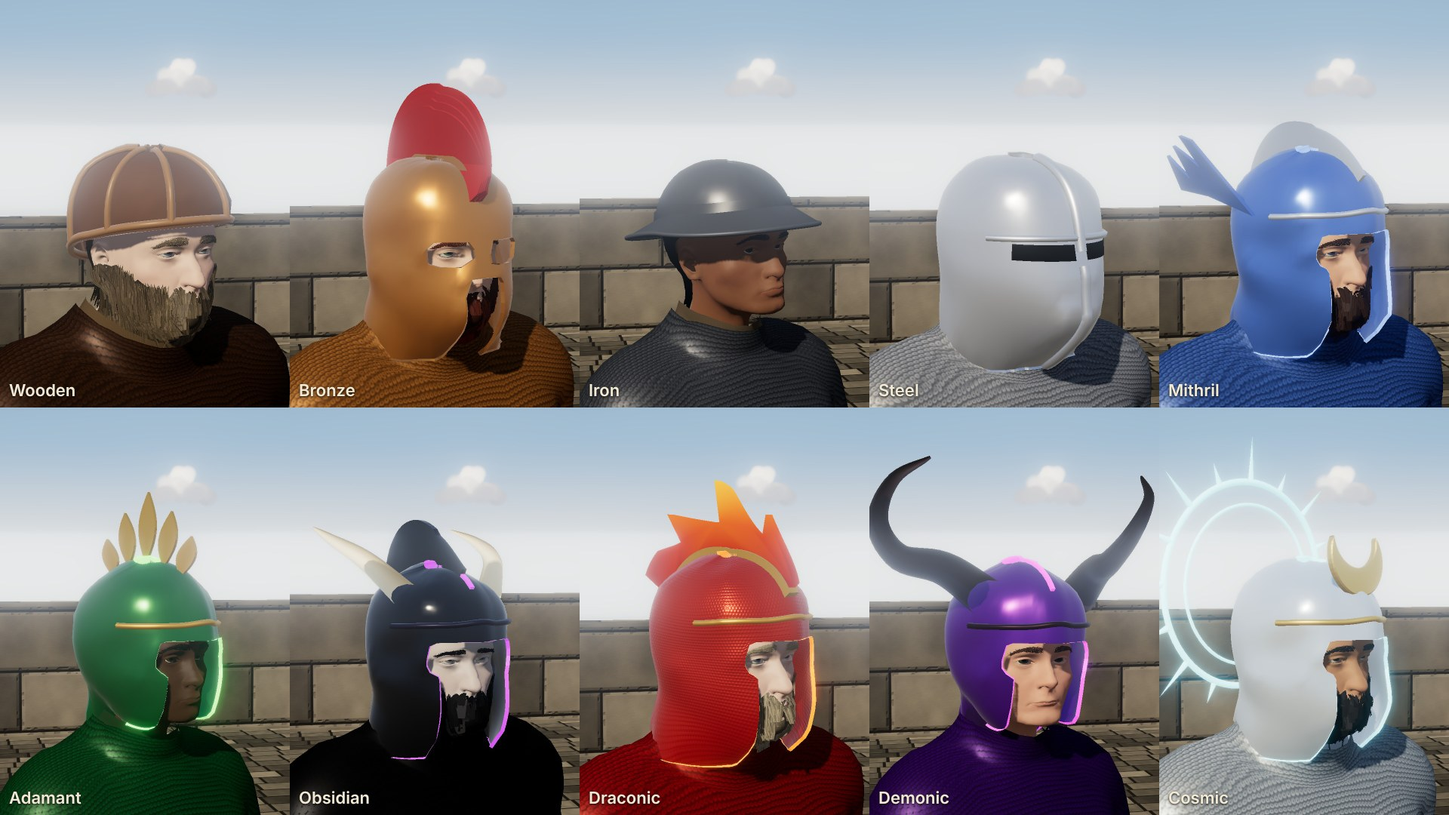
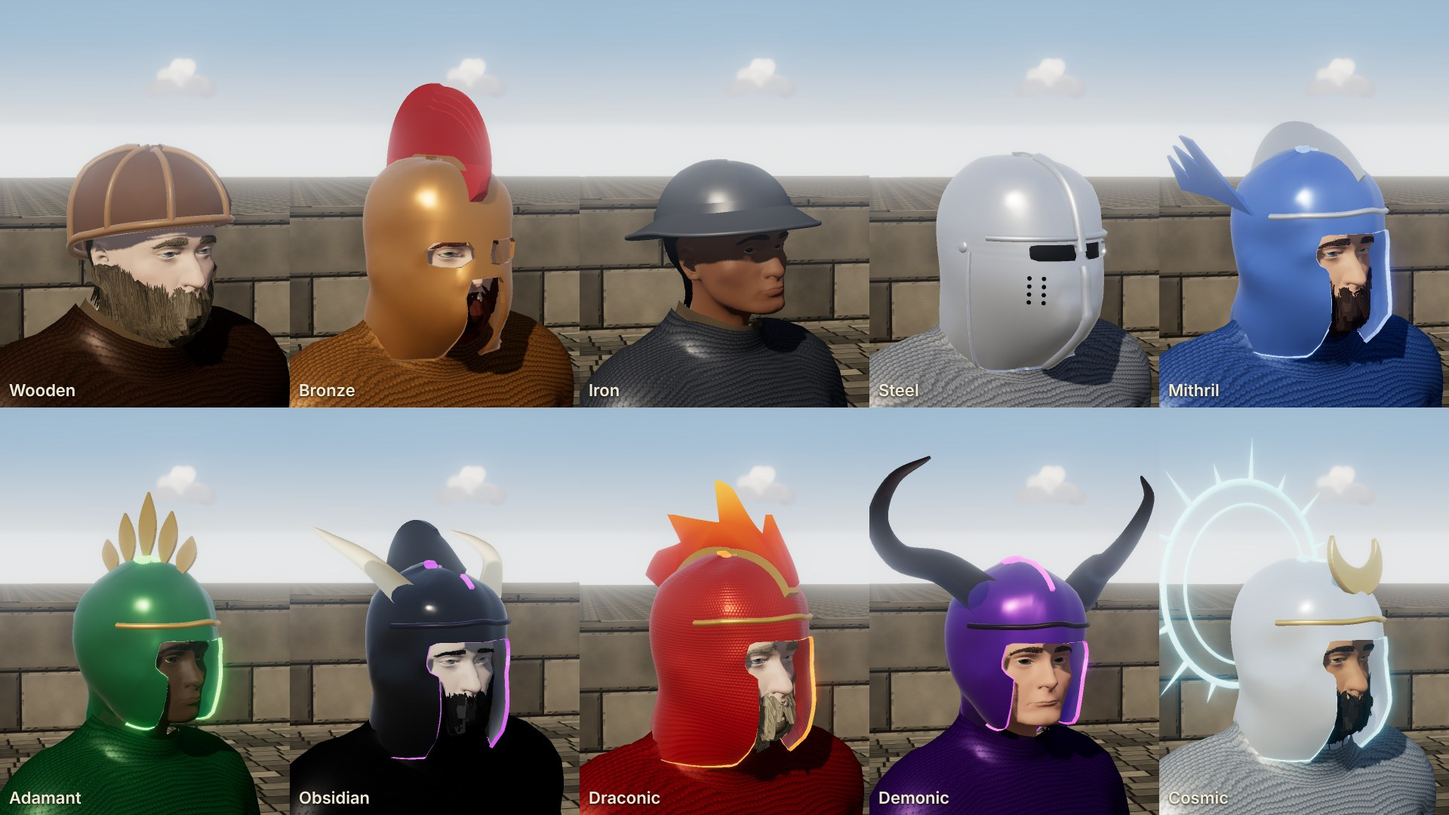
Bodies: Session 1193 — the top tiers' helms shut as visors, to Michael's C (L7, OG-052, prototype only)
A sight cut through on rows crowded at the eyes, a dark plate behind it, a prow to a keel, breaths and
pivots; the shell's cut moves along the grid only, and takes the short way across the seam at 0.
helms.check.mjs: no ray from 15 views reaches a shut face; 41/41.

Claude-Session: https://claude.ai/code/session_01SNDMvfMDnhsbv7arhwWjxa

diff --git a/docs/prototypes/levelup/helms.js b/docs/prototypes/levelup/helms.js
@@ -45,6 +45,7 @@ export function M(key, tier) { const k = key + ':' + tier; if (MATS[k]) return M
     : key === 'antler' ? new THREE.MeshStandardMaterial({ color: C(.56, .46, .34), roughness: .75 })
     : key === 'flame' ? new THREE.MeshBasicMaterial({ vertexColors: true, side: THREE.DoubleSide, toneMapped: false })
     : new THREE.MeshStandardMaterial({ color: C(...T.cloth), roughness: .9 });
+  m.userData.key = key;
   if (ENV.map && m.isMeshStandardMaterial) { m.envMap = ENV.map; m.envMapIntensity = ENV.k; }
   return MATS[k] = m; }
 
@@ -62,13 +63,15 @@ export function fitHead(p) {
   const eL = bp('eye.L'), eR = bp('eye.R'), eye = eL && eR ? eL.clone().add(eR).multiplyScalar(.5) : new THREE.Vector3(0, .04, .09), ex = eL && eR ? Math.abs(eL.x - eR.x) / 2 : .031;
   let chin = 1, crown = -1, nose = -1, zb = 1; for (const q of body) { if (Math.abs(q.x) < .02 && q.z > eye.z - .04) chin = Math.min(chin, q.y); crown = Math.max(crown, q.y); nose = Math.max(nose, q.z); zb = Math.min(zb, q.z); }
   const box = new THREE.Box3(); for (const q of pts) box.expandByPoint(q);
-  return { hb, pts, eye, ex, chin, crown, nose, back: zb, box, hood: p.meshes.some(m => m.name === 'hoodUp') };
+  return { hb, pts, body, eye, ex, chin, crown, nose, back: zb, box, hood: p.meshes.some(m => m.name === 'hoodUp') };
 }
 
 // ── the shell ──
 const sstep = (a, b, x) => { const t = Math.min(1, Math.max(0, (x - a) / (b - a))); return t * t * (3 - 2 * t); };
 // o: cl (clearance), bottom(θ) -> y of the rim, sd(x, y, z) -> the face opening's signed distance (< 0 cut), smooth (passes),
-// ridge (a keel along the top, metres), flare (the rim turned out, metres), top (the crown raised, metres), NT, NP
+// ridge (a keel along the top, metres), flare (the rim turned out, metres), top (the crown raised, metres), NT, NP;
+// prow (Session 1193: a shut visor drawn forward to a keel down the face, metres at the mouth), dense ([φ, width, k]: rows k times
+// closer about φ, so a slit there is cut on a fine grid)
 export function shell(F, o = {}) {
   const NT = o.NT || 80, NB = 36, PH = Math.PI * .96, c = new THREE.Vector3(0, F.eye.y - .005, (F.nose + F.back) / 2 - .01), Mx = new Float32Array(NT * NB), CL = o.cl ?? .012;
   const bin = (th, ph) => [((Math.round(th / (Math.PI * 2) * NT) % NT) + NT) % NT, Math.max(0, Math.min(NB - 1, Math.round(ph / PH * (NB - 1))))];
@@ -85,6 +88,8 @@ export function shell(F, o = {}) {
   let phB = null; const R = (th, ph) => { let r = R0(th, ph) + CL; const lat = Math.sin(ph) * Math.sin(th), up = Math.cos(ph);
     if (o.ridge) r += o.ridge * Math.exp(-((lat / .2) ** 2)) * sstep(-.3, .4, up);
     if (o.top) r += o.top * sstep(.2, .95, up);
+    // the prow: most at the mouth, gone by the brow and the throat, and only in front of the cheeks, narrowing to the keel
+    if (o.prow) r += o.prow * Math.max(0, Math.cos(th)) ** 2 * Math.exp(-((lat / .38) ** 2)) * Math.exp(-(((up + .2) / .4) ** 2));
     if (o.flare && phB) r += o.flare * sstep(phB(th) - .45, phB(th), ph) * (.6 + .4 * sstep(-1, -.2, -Math.cos(th)));
     return r; };
   const at = (th, ph, off = 0) => { const r = R(th, ph) + off; return new THREE.Vector3(c.x + r * Math.sin(ph) * Math.sin(th), c.y + r * Math.cos(ph), c.z + r * Math.sin(ph) * Math.cos(th)); };
@@ -93,7 +98,12 @@ export function shell(F, o = {}) {
   const RIM = Array.from({ length: NT + 1 }, (_, t) => phRim(t / NT * Math.PI * 2));
   // the grid: rows from the crown to the rim, denser near the rim and the face
   const NP = o.NP || 28, prm = [], pos = [], uv = [];
-  for (let j = 0; j < NP; j++) for (let t = 0; t <= NT; t++) { const th = t / NT * Math.PI * 2, ph = RIM[t] * (j / (NP - 1)) ** .85; prm.push([th, ph]); const p = at(th, ph); pos.push(p.x, p.y, p.z); uv.push(t / NT, ph / PH); }
+  // with `dense`, a row's φ comes off the cumulative density up to that column's rim, so the rows crowd about φ
+  let rowPh = (t, f) => RIM[t] * f ** .85;
+  if (o.dense) { const [pc, w, k] = o.dense, NS = 400, cum = [0]; for (let i = 1; i <= NS; i++) { const ph = PH * (i - .5) / NS; cum.push(cum[i - 1] + (1 + k * Math.exp(-(((ph - pc) / w) ** 2))) * PH / NS); }
+    const cAt = ph => { const u = Math.min(NS, ph / PH * NS), i = Math.floor(u); return i >= NS ? cum[NS] : cum[i] + (cum[i + 1] - cum[i]) * (u - i); };
+    rowPh = (t, f) => { const tg = cAt(RIM[t]) * f; let lo = 0, hi = RIM[t]; for (let k2 = 0; k2 < 30; k2++) { const m = (lo + hi) / 2; if (cAt(m) < tg) lo = m; else hi = m; } return (lo + hi) / 2; }; }
+  for (let j = 0; j < NP; j++) for (let t = 0; t <= NT; t++) { const th = t / NT * Math.PI * 2, ph = rowPh(t, j / (NP - 1)); prm.push([th, ph]); const p = at(th, ph); pos.push(p.x, p.y, p.z); uv.push(t / NT, ph / PH); }
   const sd = o.sd, V = i => new THREE.Vector3(pos[i * 3], pos[i * 3 + 1], pos[i * 3 + 2]), sdv = i => sd(pos[i * 3], pos[i * 3 + 1], pos[i * 3 + 2]);
   const idx = [], N = pos.length / 3, inside = new Uint8Array(N); if (sd) for (let i = 0; i < N; i++) inside[i] = sdv(i) < 0 ? 1 : 0;
   // the last column is the first again (no seam down the back), and the first row is the crown's one point
@@ -101,22 +111,32 @@ export function shell(F, o = {}) {
   // the face: a triangle wholly inside the opening goes; a vertex inside that a kept triangle still uses moves along the grid,
   // towards the first of its triangle's outside corners, onto the opening's edge
   const moved = new Uint8Array(N);
-  for (const T of tris) { const n = T.filter(i => inside[i]).length; if (n === 3) continue; idx.push(...T); if (!n) continue;
-    for (const i of T) if (inside[i] && !moved[i]) { const out = T.find(k => !inside[k]); let lo = prm[i], hi = prm[out];
+  // (a shut visor's sight, Session 1193: a vertex moves only along the grid, up or down its own column to the neighbour there that is
+  // outside, else along its own row, so a slit's edges follow the rows and its ends the columns; a triangle with a corner that has
+  // no such neighbour goes, so no flap is left across the slit)
+  const dth = (a, b) => { let d = b - a; while (d > Math.PI) d -= Math.PI * 2; while (d < -Math.PI) d += Math.PI * 2; return d; }, dist = (i, k) => Math.abs(dth(prm[i][0], prm[k][0])) + Math.abs(prm[k][1] - prm[i][1]);
+  const near = (i, ks) => ks.filter(k => k >= 0 && k < N && !inside[k]).sort((p, q) => dist(i, p) - dist(i, q))[0];
+  const colOut = i => { const t = i % (NT + 1), r0 = i - t; return near(i, [i - (NT + 1), i + (NT + 1)]) ?? near(i, [r0 + (t + NT - 1) % NT, r0 + (t + 1) % NT]); };
+  for (const T of tris) { const n = T.filter(i => inside[i]).length; if (n === 3) continue; if (n && o.holeLip && T.some(i => inside[i] && colOut(i) === undefined)) continue; idx.push(...T); if (!n) continue;
+    // (the angle unwrapped, so a move across the seam at θ = 0 goes the short way)
+    for (const i of T) if (inside[i] && !moved[i]) { const out = o.holeLip ? colOut(i) : T.find(k => !inside[k]); let lo = prm[i], hi = [prm[i][0] + dth(prm[i][0], prm[out][0]), prm[out][1]];
       for (let k = 0; k < 20; k++) { const m = [(lo[0] + hi[0]) / 2, (lo[1] + hi[1]) / 2], p = at(m[0], m[1]); if (sd(p.x, p.y, p.z) < 0) lo = m; else hi = m; }
       const p = at(hi[0], hi[1]); pos[i * 3] = p.x; pos[i * 3 + 1] = p.y; pos[i * 3 + 2] = p.z; moved[i] = 1; } }
   const g = new THREE.BufferGeometry(); g.setAttribute('position', new THREE.Float32BufferAttribute(pos, 3)); g.setAttribute('uv', new THREE.Float32BufferAttribute(uv, 2)); g.setIndex(idx); g.computeVertexNormals();
   // the free edges (the rim and the face's opening): a lip turned out along the shell's normal
   const E = new Map(), key = (a, b) => a < b ? a + ',' + b : b + ',' + a; for (let k = 0; k < idx.length; k += 3) for (let e = 0; e < 3; e++) { const a = idx[k + e], b = idx[k + (e + 1) % 3], s = key(a, b); E.set(s, E.has(s) ? null : [a, b]); }
-  const nrm = g.attributes.normal, lp = [], li = [], LIP = o.lip ?? .004, n = new THREE.Vector3();
+  const nrm = g.attributes.normal, lpRim = [], liRim = [], LIP0 = o.lip ?? .004, n = new THREE.Vector3(), hp = [], hi = [];
+  // an edge on the opening (both ends on sd's zero) goes to the opening's own lip, `hole`, which a shut visor draws in its trim
   for (const e of E.values()) { if (!e) continue; const [a, b] = e, A = V(a), B = V(b), nA = n.fromBufferAttribute(nrm, a).clone(), nB = n.fromBufferAttribute(nrm, b).clone();
+    const onHole = o.holeLip && sd && Math.abs(sd(A.x, A.y, A.z)) < .0015 && Math.abs(sd(B.x, B.y, B.z)) < .0015, lp = onHole ? hp : lpRim, li = onHole ? hi : liRim, LIP = onHole ? o.holeLip : LIP0;
     // the normals face out of the head: check against the centre
     if (nA.dot(A.clone().sub(c)) < 0) nA.negate(); if (nB.dot(B.clone().sub(c)) < 0) nB.negate();
     const k = lp.length / 3; lp.push(...A.clone().addScaledVector(nA, -.002).toArray(), ...B.clone().addScaledVector(nB, -.002).toArray(), ...B.clone().addScaledVector(nB, LIP).toArray(), ...A.clone().addScaledVector(nA, LIP).toArray()); li.push(k, k + 1, k + 2, k, k + 2, k + 3); }
-  const lip = new THREE.BufferGeometry(); lip.setAttribute('position', new THREE.Float32BufferAttribute(lp, 3)); lip.setIndex(li); lip.computeVertexNormals();
+  const geoOf = (P, I) => { const q = new THREE.BufferGeometry(); q.setAttribute('position', new THREE.Float32BufferAttribute(P, 3)); q.setIndex(I); q.computeVertexNormals(); return q; };
+  const lip = geoOf(lpRim, liRim), hole = hp.length ? geoOf(hp, hi) : null;
   // the gap: the nearest point of the head to the shell, over the points the shell covers (a point in the face's opening is not covered)
   let gap = 1; for (const q of F.pts) { if (sd && sd(q.x, q.y, q.z) < .004) continue; const d = q.clone().sub(c), r = d.length(), th = Math.atan2(d.x, d.z), ph = Math.acos(d.y / r); if (ph > phB(th)) continue; gap = Math.min(gap, R(th, ph) - r); }
-  return { g, lip, at, R, c, RIM: th => phRim(th), gap, NT };
+  return { g, lip, hole, at, R, c, RIM: th => phRim(th), gap, NT };
 }
 
 // ── the face's openings, in the head's front view (x across, y up), for points in front of the ears ──
@@ -124,6 +144,8 @@ const rbox = (x, y, cx, cy, hw, hh, rr) => { const qx = Math.abs(x - cx) - hw + 
 export function face(kind, F) { const ey = F.eye.y, front = z => z > F.eye.z - .055;
   if (kind === 'open') return (x, y, z) => !front(z) ? 1 : Math.min(rbox(x, y, 0, (ey + .03 + F.chin - .05) / 2, .057, (ey + .03 - F.chin + .05) / 2, .03), rbox(x, y, 0, ey + .005, .07, .024, .016));
   if (kind === 'T') return (x, y, z) => !front(z) ? 1 : Math.min(Math.max(rbox(x, y, 0, ey + .002, .072, .017, .012), .012 - Math.abs(x)), rbox(x, y, 0, F.chin - .03, .03, ey - .03 - F.chin + .03, .012));
+  // the visor's sight (Session 1193): two slits at the eyes, a 14 mm bar of the keel between them, 2.2 cm high, 7 cm out each side
+  if (kind === 'slit') return (x, y, z) => !front(z) ? 1 : Math.max(rbox(x, y, 0, ey + .004, .07, .011, .006), .007 - Math.abs(x));
     return null; }
 
 // ── the pieces on it ──
@@ -180,13 +202,42 @@ function band(S, ph, off, w, th0 = 0, th1 = Math.PI * 2) { const L = []; for (le
 
 // the visor's slit: narrower than the shell's cells, so not cut but drawn, a dark band 2.2 cm high on the surface at the eyes, from
 // θ0 to θ1, either side of a bar 1.6 cm wide (the slit's depth is the dark; the eyes behind it are not seen, as through a real one)
-function slit(S, F, th0, th1) { const yAt = (th, y) => { let lo = .3, hi = 2.6; for (let k = 0; k < 22; k++) { const m = (lo + hi) / 2; if (S.at(th, m).y > y) lo = m; else hi = m; } return (lo + hi) / 2; };
-  const pos = [], idx = [], n = 32, y0 = F.eye.y + .004 - .011, y1 = F.eye.y + .004 + .011;
-  for (const [a, b] of [[th0, -.075], [.075, th1]]) { const k0 = pos.length / 3; for (let i = 0; i <= n; i++) { const th = a + (b - a) * i / n; for (const y of [y0, y1]) pos.push(...S.at(th, yAt(th, y), .0012).toArray()); }
+// o: hh (half its height), off (from the shell: proud, or under it for the dark behind a cut slit), whole (no bar in the middle)
+function slit(S, F, th0, th1, o = {}) { const yAt = (th, y) => { let lo = .3, hi = 2.6; for (let k = 0; k < 22; k++) { const m = (lo + hi) / 2; if (S.at(th, m).y > y) lo = m; else hi = m; } return (lo + hi) / 2; };
+  const hh = o.hh ?? .011, off = o.off ?? .0012, pos = [], idx = [], n = 32, y0 = F.eye.y + .004 - hh, y1 = F.eye.y + .004 + hh;
+  for (const [a, b] of o.whole ? [[th0, th1]] : [[th0, -.075], [.075, th1]]) { const k0 = pos.length / 3; for (let i = 0; i <= n; i++) { const th = a + (b - a) * i / n; for (const y of [y0, y1]) pos.push(...S.at(th, yAt(th, y), off).toArray()); }
     for (let i = 0; i < n; i++) { const q = k0 + i * 2; idx.push(q, q + 2, q + 1, q + 1, q + 2, q + 3); } }
   const g = new THREE.BufferGeometry(); g.setAttribute('position', new THREE.Float32BufferAttribute(pos, 3)); g.setIndex(idx); g.computeVertexNormals(); return g; }
 // a strip down one meridian, from φ0 to φ1, standing `off` proud
 function meridian(S, th, ph0, ph1, off, w) { const L = []; for (let k = 0; k <= 24; k++) L.push(S.at(th, ph0 + (ph1 - ph0) * k / 24, off)); return new THREE.TubeGeometry(new THREE.CatmullRomCurve3(L), 24, w, 5, false); }
+// a shut visor's fittings (Session 1193, Michael's C on the top tiers' helms: "the higher tier helmets should not show the
+// wearer's face at all"): behind the cut sight a dark plate 7 mm under the shell, wider and taller than the cut, so through it
+// there is dark and never an eye; the breaths, eight round holes in two columns on the wearer's right cheek, each a dark disc
+// in a ring; and the visor's two pivots at the temples, a domed rivet each side, with the visor's edge running down the jaw from each
+function visorParts(S, F, add, trimKey) {
+  add('dark', slit(S, F, -.82, .82, { hh: .019, off: -.007, whole: true }));
+  const yAt = (th, y) => { let lo = .3, hi = 2.6; for (let k = 0; k < 22; k++) { const m = (lo + hi) / 2; if (S.at(th, m).y > y) lo = m; else hi = m; } return (lo + hi) / 2; };
+  const nrmAt = (th, ph) => { const a = S.at(th, ph), b = S.at(th + .01, ph), c = S.at(th, ph + .01); return b.sub(a).cross(c.sub(a)).normalize().negate(); };
+  const disc = (th, y, r, key, off, seg = 12) => { const ph = yAt(th, y), p = S.at(th, ph, off), nn = nrmAt(th, ph), g = new THREE.CircleGeometry(r, seg);
+    g.lookAt(nn); g.translate(p.x, p.y, p.z); add(key, g); };
+  for (const th of [-.42, -.56]) for (let k = 0; k < 4; k++) { const y = F.eye.y - .03 - k * .011; disc(th, y, .0045, trimKey, .0012, 14); disc(th, y, .0031, 'dark', .0018, 10); }
+  for (const s of [1, -1]) { const th = s * 1.42, ph = yAt(th, F.eye.y + .004), p = S.at(th, ph, 0), q = new THREE.Quaternion().setFromUnitVectors(new THREE.Vector3(0, 1, 0), nrmAt(th, ph));
+    const g = new THREE.SphereGeometry(.009, 12, 6, 0, Math.PI * 2, 0, Math.PI / 2); g.scale(1, .45, 1); g.applyQuaternion(q); g.translate(p.x, p.y, p.z); add(trimKey, g); }
+  // the visor's edge, from each pivot down the jaw to the rim, where the visor laps over the bevor
+  for (const s of [1, -1]) add(trimKey, meridian(S, s * 1.3, yAt(s * 1.3, F.eye.y - .002), S.RIM(s * 1.3) - .02, .0015, .0035));
+}
+// how much of the face shows (Session 1193): from 15 points of view across the front (yaw ±50°, pitch -20° to +25°), a ray to each
+// point of the face; a point shows if no piece of the helm lies between. -> { pts, views, seen, through } (through: rays that
+// reach the dark behind the sight, the sight's own share)
+export function faceShows(F, h) {
+  const meshes = []; h.group.updateMatrixWorld(true); h.group.traverse(m => { if (m.isMesh) meshes.push(m); });
+  const rc = new THREE.Raycaster(), views = []; for (const yw of [-50, -25, 0, 25, 50]) for (const pt of [-20, 0, 25]) { const a = yw * Math.PI / 180, b = pt * Math.PI / 180; views.push(new THREE.Vector3(Math.sin(a) * Math.cos(b), Math.sin(b), Math.cos(a) * Math.cos(b))); }
+  const face = F.body.filter(q => q.z > F.eye.z - .02 && q.y > F.chin - .005 && q.y < F.eye.y + .035 && Math.abs(q.x) < .065);
+  let seen = 0, through = 0, n = 0;
+  for (let i = 0; i < face.length; i += 3) { const q = face[i]; for (const d of views) { n++; const o = q.clone().addScaledVector(d, .5); rc.set(o, d.clone().negate()); rc.far = .5 - .0005;
+    const hit = rc.intersectObjects(meshes, false)[0]; if (!hit) seen++; else if (hit.object.material.userData.key === 'dark') through++; } }
+  return { pts: Math.ceil(face.length / 3), views: views.length, rays: n, seen, through };
+}
 // merge each material's geometries into one mesh; the result in the head bone's frame
 function assemble(parts, tier, S, F) { const by = {}; for (const [k, g] of parts) (by[k] = by[k] || []).push(g.index ? g.toNonIndexed() : g);
   const group = new THREE.Group(); group.name = 'tierHelm'; let tris = 0, draws = 0;
@@ -207,12 +258,14 @@ export function helm(tier, F, o = {}) { const T = TIERS[tier], bold = !!o.bold &
   else if (tier === 2) { S = shell(F, { cl: .014, bottom: fullRim(F, .03, -.09), sd: face('T', F), smooth: 6, flare: .012 }); add('metal', S.g); add('trim', S.lip);
     // the horsehair: seven thin combs fanned 13 degrees either side about the keel, so it reads as a brush and not a board
     const cy = S.at(0, 0).y; for (let k = -3; k <= 3; k++) { const g = comb(S, .95, 1.35, s => (.03 + .085 * Math.sin(Math.PI * Math.min(1, s * 1.05)) ** .6) * (1 - .1 * Math.abs(k)), .005); g.translate(0, -cy, 0); g.rotateZ(k * .05); g.translate(0, cy, 0); add('crest', g); } add('trim', comb(S, .95, 1.3, () => .012, .008)); }
-  else if (tier === 4) { S = shell(F, { cl: .02, bottom: fullRim(F, .045, -.1), smooth: 14, top: -.008 }); add('metal', S.g); add('trim', S.lip); add('dark', slit(S, F, -.75, .75));
+  else if (tier === 4) { S = shell(F, { cl: .02, bottom: fullRim(F, .045, -.1), smooth: 14, top: -.008, sd: face('slit', F), dense: [Math.PI / 2 - .07, .13, 6], NP: 36, holeLip: .003 }); add('metal', S.g); add('trim', S.lip); add('trim', S.hole); visorParts(S, F, add, 'trim');
     // the great helm's cross: a reinforce down the middle of the face and the brow band over the slit
     add('trim', band(S, 1.36, .003, .005, -1.05, 1.05)); add('trim', meridian(S, 0, .25, 1.5, .002, .009)); add('trim', meridian(S, 0, 1.64, S.RIM(0) - .04, .002, .009)); }
   else { // the magical tiers: an armet fitted closer, its face open (or shut behind a visor's slit), a keel along the top
-    S = shell(F, { cl: closed ? .018 : .014, bottom: fullRim(F, closed ? .035 : .018, -.09), sd: closed ? null : face('open', F), smooth: closed ? 10 : 7, ridge: bold || tier < 5 ? .012 : .006, flare: .01 });
-    add('metal', S.g); add(rim, S.lip); if (closed) { add('dark', slit(S, F, -.7, .7)); add(rim, meridian(S, 0, 1.64, S.RIM(0) - .03, .002, .006)); }
+    // shut (Session 1193): the visor drawn forward 2.6 cm at the mouth to a keel, the sight cut through it on rows crowded about the eyes
+    S = shell(F, { cl: closed ? .018 : .014, bottom: fullRim(F, closed ? .035 : .018, -.09), sd: face(closed ? 'slit' : 'open', F), smooth: closed ? 10 : 7, ridge: bold || tier < 5 ? .012 : .006, flare: .01,
+      ...(closed ? { prow: .026, dense: [Math.PI / 2 - .07, .13, 6], NP: 36, holeLip: .003 } : {}) });
+    add('metal', S.g); add(rim, S.lip); if (closed) { add('trim', S.hole); visorParts(S, F, add, 'trim'); add(rim, meridian(S, 0, 1.68, S.RIM(0) - .03, .002, .006)); }
     // the brow band in the trim, and (plain) a low comb: OG-019's ladder, one shape, the tier in its colour and glow
     add('trim', band(S, 1.1, .002, .0045, -1.25, 1.25));
     if (!bold) add('trim', comb(S, .9, 1.4, s => .012 + .01 * Math.sin(Math.PI * s), .008));

diff --git a/docs/prototypes/levelup/helms-view.js b/docs/prototypes/levelup/helms-view.js
@@ -8,13 +8,13 @@
 //   &cam=whole (default) | far (from 30 m) | heads (Steel to Cosmic, the heads at 6 m) | close (Draconic, Demonic, Cosmic at 3 m)
 // ?view=robes&set=a|b: the robe line's top six (Mithril to Cosmic) in robes and raised hoods: a plain circlet (a), or OG-052's
 //   antlered, horned, crescent and haloed hoods (b).
-// ?view=head&tier=1..10[&kind=robe]: one head close, three-quarter front (helms-sheet.mjs lays ten of them out as one sheet).
+// ?view=head&tier=1..10[&kind=robe][&front]: one head close, three-quarter front (or square to the face, Session 1193) (helms-sheet.mjs lays ten of them out as one sheet).
 // ?view=scale&set=b: Steel, Demonic and Cosmic beside the post and two bare-headed people.
 // &cam=x,y,z,tx,ty,tz puts the camera anywhere. Drag to look.
 import * as THREE from 'three';
 import { Q, W, H, STATS, makeRenderer, makeComposer, buildTextures, mat, worldUV, skyDome, clouds, run } from './common.js';
 import { loadPack, makePerson, rollGenome, statureOf } from './people.js';
-import { TIERS, ENV, fitHead, helm, hoodDress } from './helms.js';
+import { TIERS, ENV, fitHead, helm, hoodDress, faceShows } from './helms.js';
 
 const R = makeRenderer(.82), scene = new THREE.Scene(), VIEW = Q.get('view') || 'line', SET = Q.get('set') || 'b', CAM = Q.get('cam') || 'whole';
 scene.fog = new THREE.FogExp2(new THREE.Color(.78, .8, .84), .004);
@@ -63,9 +63,9 @@ const o = { bold: SET !== 'a', closed: SET === 'c' };
     if (kind === 'bare') Object.assign(D, { mail: null, helm: null });
     const p = makePerson({ ...G, dress: D }); p.root.position.set(x, p.root.position.y, z); p.root.rotation.y = ry; scene.add(p.root);
     const hb = p.byName['head'], kit = hb.getObjectByName('helm'); let h = null;
-    if (kind === 'heavy' && tier !== 3) { if (kit) hb.remove(kit); const F = fitHead(p); h = helm(tier, F, o); hb.add(h.group); }
+    if (kind === 'heavy' && tier !== 3) { if (kit) hb.remove(kit); const F = fitHead(p); h = helm(tier, F, o); if (Q.has('check')) h.face = faceShows(F, h); hb.add(h.group); }
     if (kind === 'robe') { const F = fitHead(p); h = hoodDress(tier, F, o); if (h) hb.add(h.group); }
     p.root.traverse(m => { if (m.isMesh) { m.castShadow = m.receiveShadow = true; } });
-    if (VIEW === 'head') { p.root.updateMatrixWorld(true); const c = hb.getWorldPosition(new THREE.Vector3()).add(new THREE.Vector3(0, .1, 0)); cam.position.set(c.x - .22, c.y + .06, c.z + 1.16); cam.lookAt(c); }
-    STATS.people.push({ tier: T.name, kind, people, height: +statureOf(G).toFixed(3), tris: h ? h.tris : kind === 'heavy' ? p.helm?.tris : 0, draws: h ? h.draws : kind === 'heavy' ? 2 : 0, size: h?.size, above: h?.top, gap: h?.gap ?? p.helm?.gap }); }
+    if (VIEW === 'head') { p.root.updateMatrixWorld(true); const c = hb.getWorldPosition(new THREE.Vector3()).add(new THREE.Vector3(0, .1, 0)); if (Q.has('front')) { cam.position.set(c.x + Math.sin(ry) * .8, c.y - .07, c.z + Math.cos(ry) * .8); c.y -= .09; } else cam.position.set(c.x - .22, c.y + .06, c.z + 1.16); cam.lookAt(c); }
+    STATS.people.push({ tier: T.name, kind, people, height: +statureOf(G).toFixed(3), tris: h ? h.tris : kind === 'heavy' ? p.helm?.tris : 0, draws: h ? h.draws : kind === 'heavy' ? 2 : 0, size: h?.size, above: h?.top, gap: h?.gap ?? p.helm?.gap, face: h?.face }); }
 }).catch(e => { if (e !== 'nopeople') { STATS.err = String(e && e.stack || e); console.error(e); } }).finally(() => run(comp, cam));

diff --git a/docs/devlog/1193.md b/docs/devlog/1193.md
@@ -1,0 +1,49 @@
+## v80 — Session 1193 — the top tiers' helms shut, as visors (L7, OG-052, Michael's C; prototype only)
+FREEZE #492 (card F4) is open, so this run stays in the prototypes. On 18 Oct Michael answered the concept artist's question on the
+armour's top-tier helms (`helms.html`, `docs/decisions.md`, *The armour's top-tier helms*) with C: "the higher tier helmets should
+not show the wearer's face at all". Nothing had been built since. C on the page was the face-fitted shell closed over the face and
+smoothed: an egg the shape of the face, with a black strip laid 1.2 mm over it for a slit (`helms-sheet-c.jpg` as it was). This
+session refines that to a helm with a visor. It is still the concept artist's `helms.js`, because the helms are worn: the kit's
+people wear them on the page, and the game takes them after F4.
+
+- **The sight is cut through.** `face('slit')` gives two slits at the eyes, 2.2 cm high and 7 cm out each side, with a 14 mm bar of the
+  keel between them. The shell's rows crowd about the eyes (the new `dense` option: 36 rows, six times closer within 0.13 rad of the
+  sight), so the cut runs along rows. A 7 mm dark plate sits behind the cut, wider and taller than it: through the sight there is
+  dark and never an eye. Each edge of the cut gets a 3 mm lip in the tier's trim, kept apart from the rim's glowing lip (`hole`).
+- **The cut's flaps, fixed.** The shell's cut moved a vertex inside the opening towards whichever corner of its triangle was outside,
+  often diagonally, which left flaps across a thin slit. For a shut visor a vertex now moves only along the grid: up or down its
+  column, or else along its row. A triangle that would need any other move is dropped.
+- **Correction, for every opening the shell cuts (the open faces of set b too):** a vertex next to the seam at θ = 0 was bisected
+  between 6.2 rad and 0, so towards the back of the head. The move now takes the short way round.
+- **The visor's shape.** Shut, the shell is drawn forward 2.6 cm at the mouth to a keel (`prow`), which fades out by the brow and the
+  throat and only shows in front of the cheeks. It also gets breaths, eight round holes in two columns on the wearer's right cheek,
+  and a domed pivot at each temple with the visor's edge running down the jaw from it. Steel's great helm takes the same sight,
+  breaths and pivots, without the prow.
+- **The check, new: `helms.check.mjs`.**
+  - It casts rays to every third point of the face (the body's own points from chin to brow) from 15 points of view across the front
+    (yaw ±50°, pitch −20° to +25°).
+  - Shut, no ray may reach the face, and some must pass through the sight to the dark behind it.
+  - The shell must clear the head, and a helm must stay under 12,000 triangles and 6 draws.
+  - The same helms open (set b) must still show the face, so the check has teeth.
+  - `helms.html?view=head&front` shoots a head square on.
+
+### Verified (headless Chromium)
+- **`node docs/prototypes/levelup/helms.check.mjs`:** 41 of 41 pass.
+  - Steel and Mithril to Cosmic, shut: 0 rays of 12,900 to 13,300 reach the face, and 1,783 to 2,076 reach the dark behind the sight.
+  - The shells clear the head by 1.2 cm (Steel) and 1.8 to 1.9 cm (the magical six).
+  - Set b, open: 11,188 to 12,011 rays reach the face.
+- **Triangles, shut:** Steel 8,132 (7,684 before), Mithril 8,291 (7,838), Adamant 8,251 (7,821), Obsidian 9,491 (9,040), Draconic 9,177
+  (8,726), Demonic 9,921 (9,489), Cosmic 10,063 (9,612). That is about 450 more each, for the denser rows and the fittings. Draws: 3 to 5,
+  as before.
+- **Pictures:**
+  - `helms-sheet-c.jpg` (the ten, close).
+  - `helms-heads-c.jpg` (Steel to Cosmic at 6 m) and `helms-line-c.jpg` (the line).
+  - `helms-visor-front.jpg` (Demonic square on).
+  - `helms-sheet-b.jpg`, shot again: its Steel has the new sight, and its open faces are unchanged.
+### Needs eyes
+- **Whether the six still read apart.** The fins, crests, horns and halo are as C had them, and the visors are one shape for all six.
+  OG-052 draws each tier's visor a little differently (a beak, a pointed face). A per-tier visor is a refinement for later, not a new
+  question.
+- **The breaths on one cheek.** That is the old armet's habit. Mirrored, or none, is a one-line change.
+- **Owed:** the helms in the kit's `people.js` (they live in the concept artist's `helms.js` and are placed over a built person), the
+  robe line's hoods under C (the note named helms; the hoods stay open), and the game, after F4.

diff --git a/docs/backlog.md b/docs/backlog.md
@@ -527,7 +527,7 @@ Michael marked all 96 images of the intake on the review page: 63 KEEP and 33 NO
 ### L7. Arms and armour
 - **Weapons by island** (look and systems; OG-028): Celtic knotwork, runic carving and filigree; each island's set and shields (the harp kite, the painted round, the sun-star hoplon). Aurenne's kris, chakram and war fan become a falchion, a flyssa, a nimcha, a takouba. New kinds: the spear and the crossbow first (Michael's 6 A). **The spear, prototyped in the kit, Session 909** (bodies builder; `people.js` `buildSpear`, `builder-armour-spear*.jpg`): an ash shaft upright in the right fist, the fist closed round it, a full cloak thrown back off the right shoulder; owed: the spear in a fight (B4), ~~the head by island~~ — done, Session 918 (`SPEAR_HEADS`: the Gatelands' leaf, the Mark's winged head, Aurenne's long head; `builder-armour-spearhead-*.jpg`), ~~the crossbow~~ — done, Session 941 (`people.js` `buildCrossbow`, `CROSSBOWS`: carried point down in the right fist, a make by island; `builder-armour-crossbow*.jpg`; owed: spanning and shooting it, B4). **The Gatelands' harp kite, prototyped, Session 911** (`people.js` `buildKite`, `builder-armour-kite*.jpg`): 48 by 86 cm on the left forearm by its enarmes; ~~the kite slung under a cloak~~ — done, Session 916 (and Session 917 fixed every cloak's outside, which lay in its own shadow: the sheet's normals pointed in) (with the hoplon: `buildShieldBack` takes the shape, `builder-armour-kite-slung*.jpg`, `builder-armour-hoplon-slung*.jpg`); ~~the sun-star hoplon~~ — done, Session 913 (`HOPLON`, `builder-armour-hoplon*.jpg`: 90 cm, dished 10 cm, held by porpax and antilabe).
 - **Legendary weapons** (quest writer and look; OG-075; with J's unique artifacts): five per island and the gate relics, each with its own silhouette; drop the MMO stat lines and the cursed row outside the gates. No flintlock: no firearms in hand, and guns stay cannon on the top ships (Michael's 7 A).
-- **Armour's top tiers** (look builder; OG-052, kept over OG-019): horned and finned helms for the high heavy tiers, a flame crest, great horns, a crescent-and-halo crown; antlered and haloed hoods on the high robes.
+- **Armour's top tiers** (look builder; OG-052, kept over OG-019): horned and finned helms for the high heavy tiers, a flame crest, great horns, a crescent-and-halo crown; antlered and haloed hoods on the high robes. **Prototyped by the concept artist, 17 Oct** (`helms.js`, `helms.html?set=a|b|c`); Michael's C, 18 Oct: the faces shut from Mithril up. ~~**The visors, as C**~~ — done, Session 1193 (bodies builder; a sight cut through on dense rows over a dark plate, a prow to a keel, breaths, pivots; `helms.check.mjs`, no ray of 15 views reaches a face; `helms-sheet-c.jpg`, `helms-visor-front.jpg`); owed: the helms into the kit's `people.js`, the game (after F4).
 - **Magical implements by school** (look builder and systems; OG-094, kept with Tine redone as fire): one emblem and colour per school, and four implements each (a staff, a wand or maul, an orb or foci, a tome). Uisce blue with a crescent moon, Cloch brown with a mountain, Scáth purple with an eye, Solas gold with a sun, Gaoth grey with a spiral. Tine's column is redrawn as fire: its rootwarden staff, briar wand and hearthbloom are dropped, and Solas gives up the fire it was given. Wands, orbs and tomes are new item lines beside the wooden staff, and the six-school icon set comes from this board. Objects worth having: a gate compass that finds gates, a stormwhistle Aurenne's navigators blow to call wind (Gaoth at sea), a quill that replays memories, a self-writing book. Each island has its own make: the Gatelands wood, bone and leather; the Mark stone and iron; Aurenne fine metal and carving.
 - **The bind** (look builder, animation; OG-045, OG-063): blades crossed high, both leaning in, as the posture contest's pose; the off-hand spell held low and cocked behind the sword.
 
